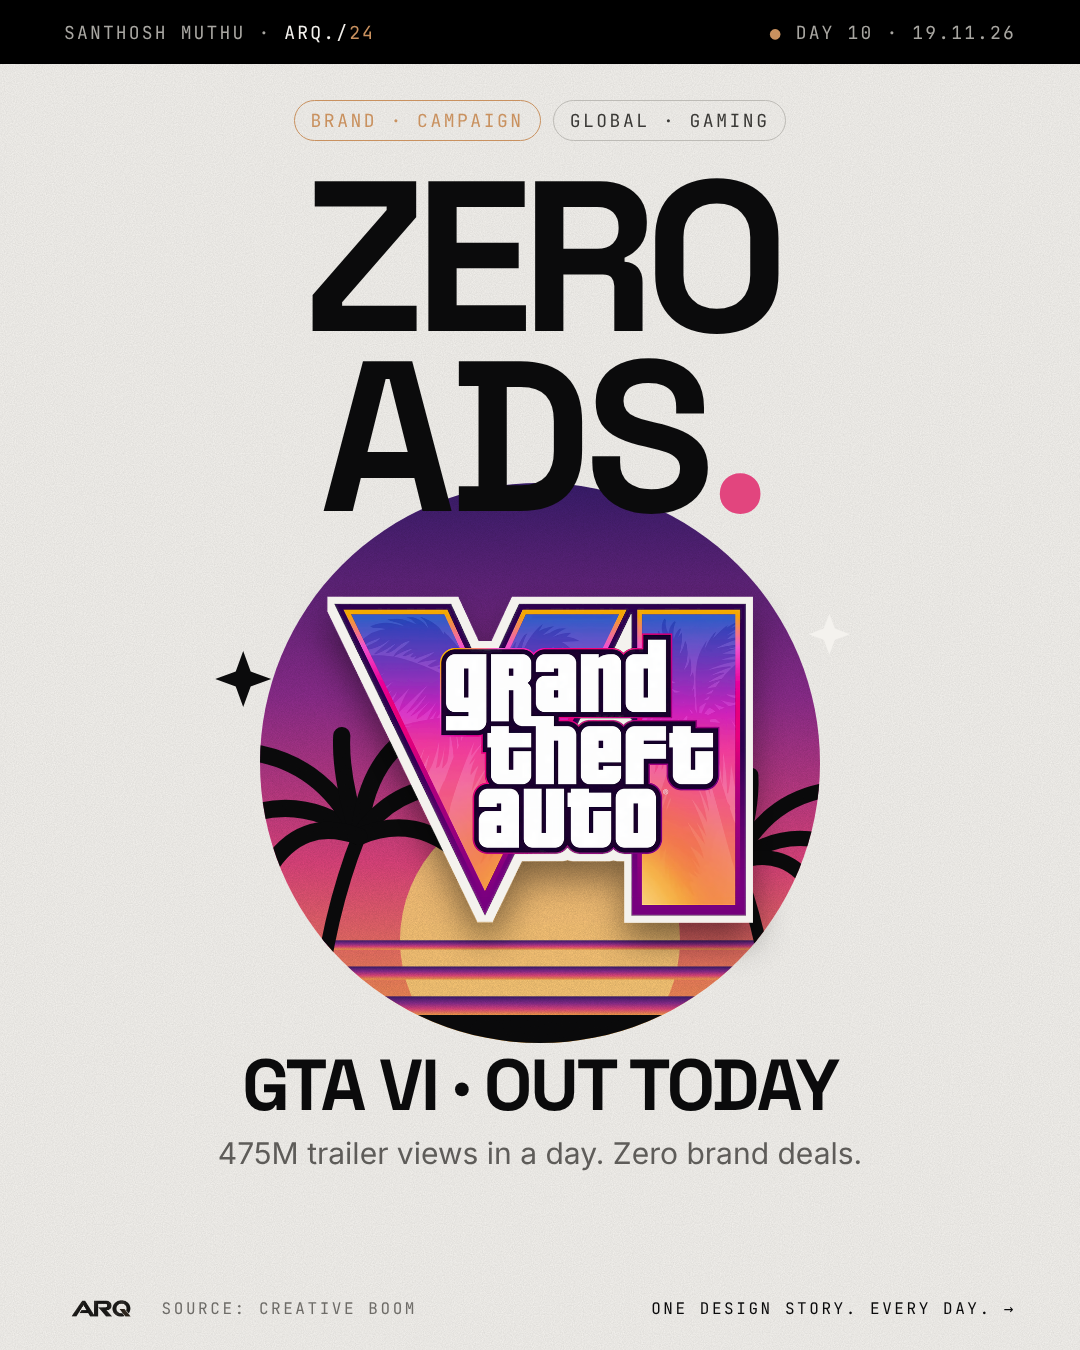
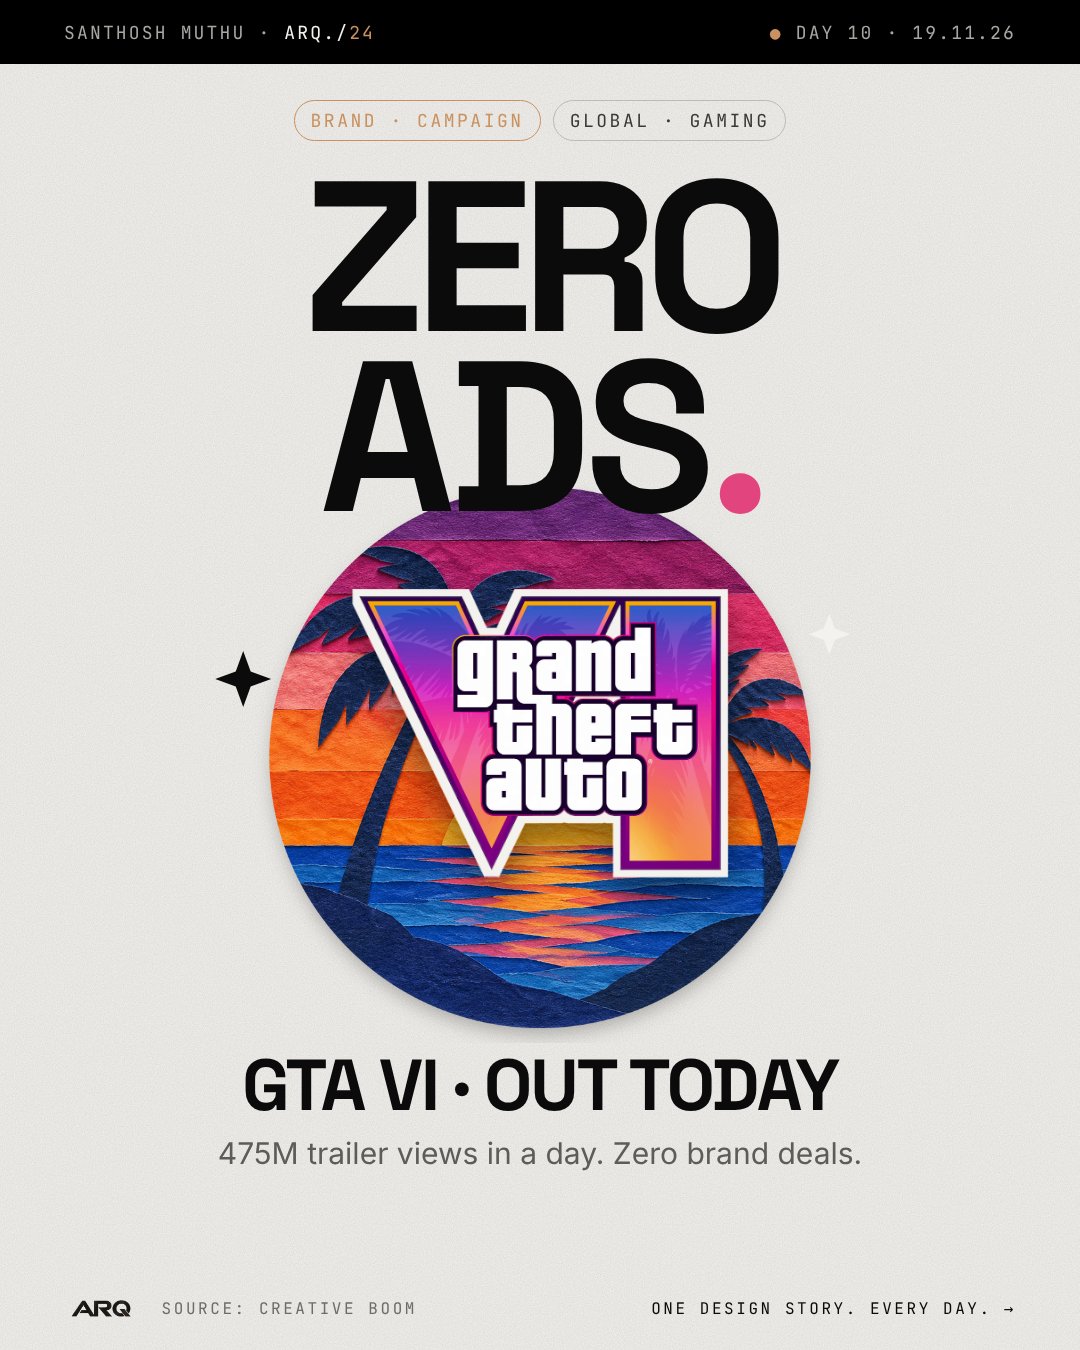
ARQ./24 Day 10: swap in Santhosh's paper-collage sunset hero
Claude-Session: https://claude.ai/code/session_01X5NTV5K5HDUoSwSpfttvS1

Changed region(s): [[0.2139, 0.3422, 0.7639, 0.7778]]

diff --git a/blog/posts.js b/blog/posts.js
@@ -9,7 +9,7 @@
 //  3. Save, commit, done. Keep the backtick ` characters that wrap the md text; if your article needs a
 //     backtick, write \` instead.
 window.ARQ24_POSTS = [
-{day: "10", date: "2026-11-19", cat: "Brand · Campaign", region: "Global · Gaming", read: "3 min", accent: "ads.", poster: "blog/ARQ24_Day10_Zero_Ads.png", alt: "ARQ./24 Day 10 poster: the words ZERO ADS above the Grand Theft Auto VI logo on a sunset circle with palm tree silhouettes",
+{day: "10", date: "2026-11-19", cat: "Brand · Campaign", region: "Global · Gaming", read: "3 min", accent: "ads.", poster: "blog/ARQ24_Day10_Zero_Ads.png", alt: "ARQ./24 Day 10 poster: the words ZERO ADS above the Grand Theft Auto VI logo on a paper-collage sunset circle with palm trees and the sea",
  md: `
 # Zero ads.
 
@@ -30,7 +30,7 @@ GTA 6 unlocked at midnight. The day before, Creative Boom's Katy Cowan called it
 
 ## The visual, explained
 
-The GTA VI logo sits on a sunset circle with palm trees, the palette everyone is borrowing this month. The headline says the strange part: the biggest campaign of the year, with no ads sold. The GTA VI logo belongs to Rockstar Games and is shown here for editorial commentary; the sunset, palms and layout are my own illustration.
+The GTA VI logo sits on a sunset circle with palm trees, the palette everyone is borrowing this month. The headline says the strange part: the biggest campaign of the year, with no ads sold. The GTA VI logo belongs to Rockstar Games and is shown here for editorial commentary; the paper-collage sunset is an AI-generated illustration I made for this post, and the layout is my own.
 
 [image: ARQ./24 Day 10 poster: ZERO ADS, the GTA VI logo on a sunset circle with palm trees]
 
